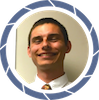
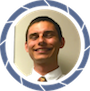
Smaller faces, better colors

diff --git a/talks/index.html b/talks/index.html
@@ -9,7 +9,7 @@ title: Talks
     <h2>Talks</h2>
         <ul class="posts">
             <li>
-                <a href="{{base.url}}/talks/Malawi-Storymap/">
+                <a href="{{base.url}}/talks/Malawi-Storymap/" style="color:#4e4b5c">
                     Geo DC: Cloudy with a Chance of Landslides
                 </a>
             </li>
